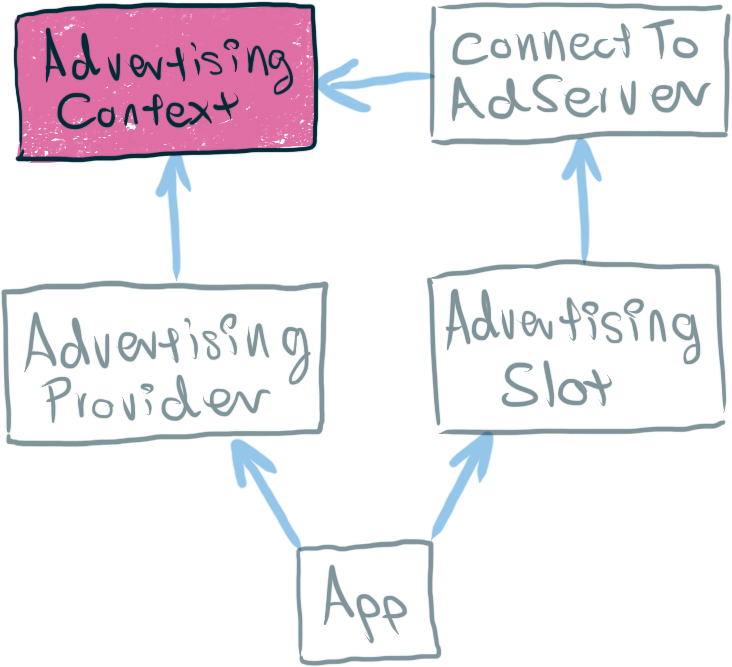
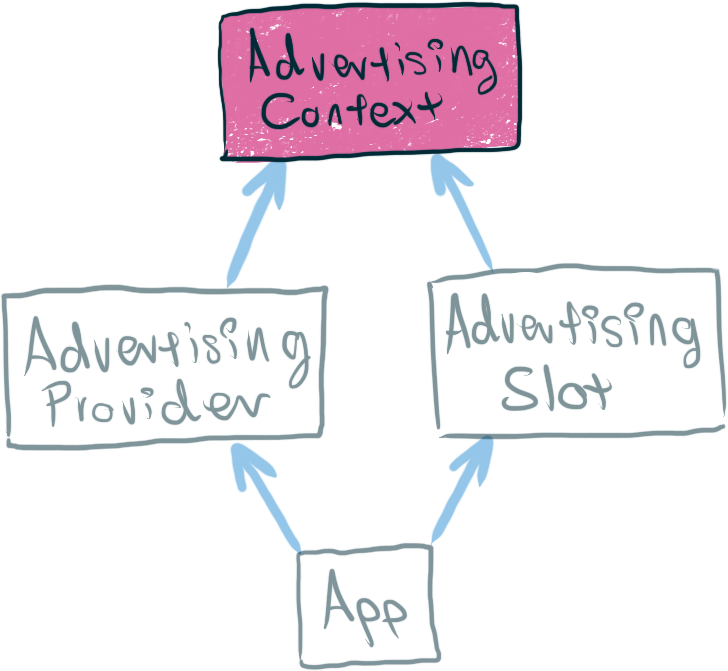
simplified code examples; layout tweaks

Changed region(s): [[0.0, 0.0, 0.9973, 1.0], [0.3324, 0.6897, 0.3626, 0.7496], [0.3626, 0.7496, 0.3929, 0.7796]]

diff --git a/index.html b/index.html
@@ -37,16 +37,16 @@
         <section data-background-image="media/prebid-movie-still.jpg" data-background-size="contain"></section>
         <section data-background-video="media/prebid-movie.mp4" data-background-size="contain" data-background-transition="none"></section>
         <section>
-            <pre><code data-trim>
-const { Provider, Consumer } = React.createContext(defaultValue);
-            </code></pre>
+            <h2>
+                <code>const { Provider, Consumer } = React.createContext(defaultValue);</code>
+            </h2>
             <img alt="Tin Can Telephone" class="plain" data-src="media/tin-can-telephone.png">
         </section>
         <section>
             <div class="columns-container">
                 <div class="column-two-thirds">
-                    <h4 class="nocaps">AdvertisingContext.js</h4>
-                    <pre><code data-trim class="js">
+                    <h2 class="nocaps">AdvertisingContext.js</h2>
+                    <pre class="big"><code data-trim class="js">
 import { createContext } from 'react';
 
 export default createContext(() => {});
@@ -65,72 +65,22 @@ export default createContext(() => {});
         <section>
             <div class="columns-container">
                 <div class="column-two-thirds">
-                    <h4 class="nocaps">connectToAdServer.js</h4>
-                    <pre class="small"><code data-trim class="jsx">
-import React from 'react';
-import AdvertisingContext from './AdvertisingContext';
-
-export default Component => props => (
-  &lt;AdvertisingContext.Consumer&gt;
-    {activate =>
-        &lt;Component {...props} activate={activate} /&gt;}
-  &lt;/AdvertisingContext.Consumer&gt;
-);
-
-                    </code></pre>
-                </div>
-                <img class="plain column-one-third" data-src="media/code-tree-connect-to-ad-server.png">
-            </div>
-            <aside class="notes">
-            </aside>
-        </section>
-        <section>
-            <div class="columns-container">
-                <div class="column-two-thirds">
-                    <h4 class="nocaps">AdvertisingSlot.js</h4>
-                    <pre class="small"><code data-trim class="jsx">
-import React, { Component } from 'react';
-import connectToAdServer from './connectToAdServer';
-
-class AdvertisingSlot extends Component {
-  componentDidMount() {
-    const { activate, id } = this.props;
-    activate(id);
-  }
-
-  render() {
-    return &lt;div id={this.props.id} /&gt;
-  }
-}
-
-export default connectToAdServer(AdvertisingSlot);
-                    </code></pre>
-                </div>
-                <img class="plain column-one-third" data-src="media/code-tree-advertising-slot.png">
-            </div>
-            <aside class="notes">
-            </aside>
-        </section>
-        <section>
-            <div class="columns-container">
-                <div class="column-two-thirds">
-                    <h4 class="nocaps">AdvertisingProvider.js</h4>
-                    <pre class="small"><code data-trim class="jsx">
+                    <h2 class="nocaps">AdvertisingProvider.js</h2>
+                    <pre class="stretch big"><code data-trim class="jsx">
 import React, { Component } from 'react';
 import AdvertisingContext from './AdvertisingContext';
+import config from './config';
+import Advertising from './Advertising';
 
 export default class extends Component {
-  activate(id) {
-    document.getElementById(id).innerHTML =
-      '&lt;img src="https://tpc.googlesyndication.com/' +
-      'simgad/14142086296742558944" ' +
-      'alt="" class="img_ad" width="300" ' +
-      'height="250" border="0"&gt;';
+  constructor(props) {
+    super(props);
+    this.advertising = new Advertising(config);
   }
 
   render() {
     return (
-      &lt;AdvertisingContext.Provider value={this.activate}&gt;
+      &lt;AdvertisingContext.Provider value={this.advertising.activate}&gt;
         {this.props.children}
       &lt;/AdvertisingContext.Provider&gt;
     );
@@ -149,19 +99,55 @@ export default class extends Component {
         <section>
             <div class="columns-container">
                 <div class="column-two-thirds">
-                    <p class="small">
+                    <h2 class="nocaps">AdvertisingSlot.js</h2>
+                    <pre class="stretch big"><code data-trim class="jsx">
+import React, { Component } from 'react';
+import AdvertisingContext from './AdvertisingContext';
+
+class AdvertisingSlot extends Component {
+  componentDidMount() {
+    const { activate, id } = this.props;
+    activate(id);
+  }
+
+  render() {
+    return &lt;div id={this.props.id} /&gt;
+  }
+}
+
+export default props => (
+  &lt;AdvertisingContext.Consumer&gt;
+    {activate => &lt;AdvertisingSlot {...props} activate={activate} /&gt;}
+  &lt;/AdvertisingContext.Consumer&gt;
+);
+
+                    </code></pre>
+                </div>
+                <img class="plain column-one-third" data-src="media/code-tree-advertising-slot.png">
+            </div>
+            <aside class="notes">
+            </aside>
+        </section>
+        <section>
+            <div class="columns-container">
+                <div class="column-two-thirds">
+                    <p>
                         <em>react-prebid</em> library on GitHub:<br>
                         <a href="https://github.com/technology-ebay-de/react-prebid">github.com/technology-ebay-de/react-prebid</a>
                     </p>
-                    <p class="small">
+                    <p>
                         Slides of this talk online:<br>
                         <a href="https://technology-ebay-de.github.io/get-rich-quick-with-react-context/">technology-ebay-de.github.io/get-rich-quick-with-react-context/</a>
                     </p>
                     <p>
+                        Code examples:<br>
+                        <a href="https://codesandbox.io/s/488y5n5kw">codesandbox.io/s/488y5n5kw</a>
+                    </p>
+                    <p class="big">
                         Follow me on Twitter:<br>
                         <a href="https://twitter.com/wiekatz" class="pink">@wiekatz</a>
                     </p>
-                    <p class="small">
+                    <p>
                         <strong>Patrick Hund</strong> | frontend developer at <a href="https://ebaytech.berlin">eBay Tech Berlin</a>
                     </p>
                 </div>
@@ -182,6 +168,10 @@ export default class extends Component {
     // - https://github.com/hakimel/reveal.js#dependencies
     /* global hljs */
     Reveal.initialize({
+        width: 1980,
+        height: 1200,
+        margin: 0.01,
+
         history: true,
         dependencies: [
             { src: 'plugin/markdown/marked.js' },

diff --git a/css/theme/source/pahund.scss b/css/theme/source/pahund.scss
@@ -67,6 +67,10 @@ $selectionBackgroundColor: $magenta;
 	color: $magenta;
 }
 
+.reveal .big {
+	font-size: 150%;
+}
+
 .reveal .small {
 	font-size: 50%;
 }
@@ -77,6 +81,10 @@ $selectionBackgroundColor: $magenta;
 
 .reveal pre.small {
 	font-size: 0.4em;
+}
+
+.reveal pre.big {
+	font-size: 0.7em;
 }
 
 .reveal section img {

diff --git a/css/theme/pahund.css b/css/theme/pahund.css
@@ -270,6 +270,9 @@ body {
 .reveal .pink {
   color: #d33682; }
 
+.reveal .big {
+  font-size: 150%; }
+
 .reveal .small {
   font-size: 50%; }
 
@@ -278,6 +281,9 @@ body {
 
 .reveal pre.small {
   font-size: 0.4em; }
+
+.reveal pre.big {
+  font-size: 0.7em; }
 
 .reveal section img {
   border: none; }
